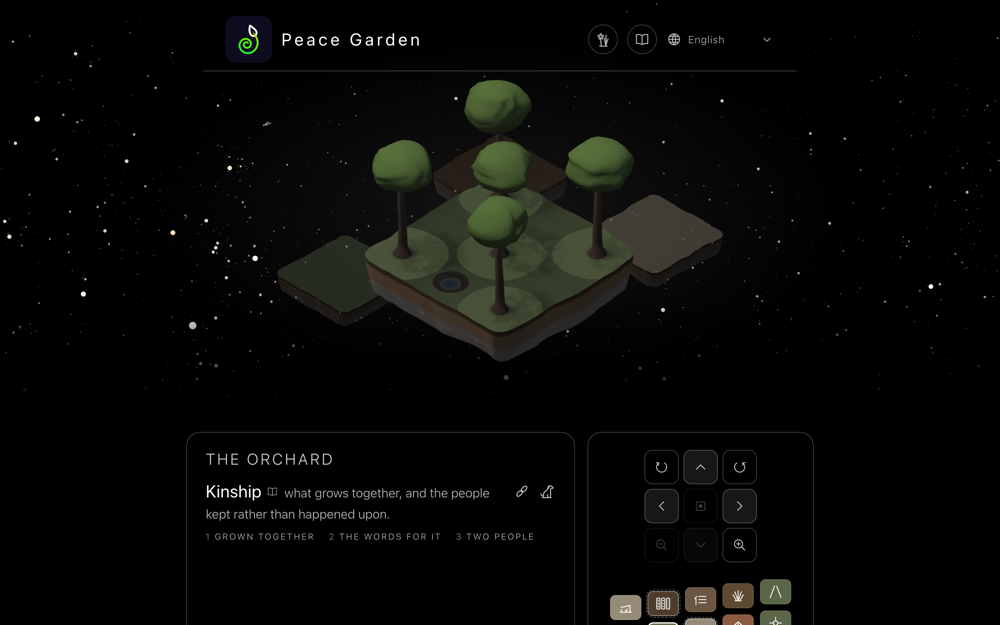
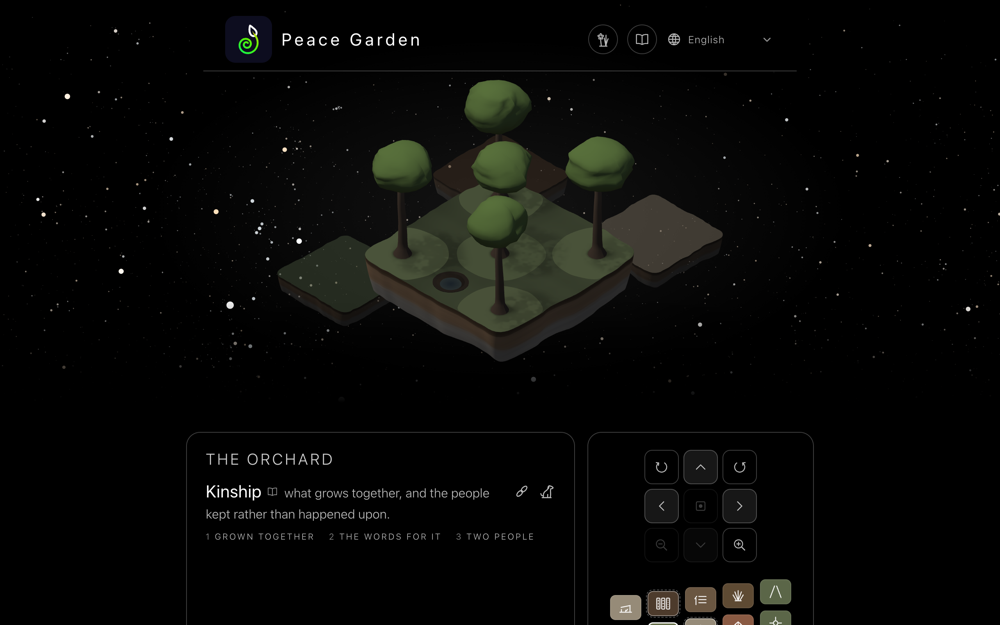
The stones in a plot's side are drawn only when zoomed in, on the website and in the app
Marcus, 2 October 2026: deploy the website's slab now. Show the stones only
when zoomed in, on both platforms. On the whole plot they were a sprinkle
of pale flecks along the side.

On the website the stage asks for no stones until the look is 1.3 times
closer than the whole plot, which one press of the pad passes. It then asks
for none under eight CSS pixels across (STONES in slab.js, the stonesFrom
uniform). A pixel rule alone would leave the largest stones on a desktop's
whole plot, at 13 to 18 pixels.

In the app GardenGround.side draws stones only into a close drawing. There
it draws none under eight points at the zoom the drawing is for
(smallestStone), where before it drew none under three points at the
plot's own size. The stale comment about the website's upright sides now
says the website hangs the same slab.

PlotTests.testStonesOnlyWhenZoomedIn holds the rule on a phone and an iPad.
The full app suite passes on a fresh iPhone Air simulator: 157 tests,
0 failures, 4 render tests skipped. All 23 reference checks pass. The ten
area pages, their ten workbenches and three turned views load with clean
consoles. The renders in design/web-slab-2026-10-02/ show the web after
views again, and add the app's 17:00 wide and close views.

diff --git a/App/PeaceGarden/Rendering/GardenGround.swift b/App/PeaceGarden/Rendering/GardenGround.swift
@@ -386,9 +386,21 @@ enum GardenGround {
     /// a fifth thinner than the bank it replaced (94 points of side against
     /// 119, at three times the garden's size). A tenth of a metre more puts
     /// back exactly what the taper takes, so the near side shows the 0.95 m
-    /// `rimDepth` promises and the camera leaves room for, and the website's
-    /// upright 0.95 m sides and this read as the same thickness.
+    /// `rimDepth` promises and the camera leaves room for. The website's plots
+    /// hang this same slab, at the same depth (`Server/assets/js/slab.js`,
+    /// since 2 October 2026).
     static let sideDepth = rimDepth + taper / 2
+
+    /// How small a stone in the side may come out on screen, in points, and
+    /// still be drawn.
+    ///
+    /// **Stones only when zoomed in** (Marcus, 2 October 2026, for the app and
+    /// the website alike). At three points the stones of the whole plot were a
+    /// sprinkle of flecks along the side; a stone is for a close look. So none
+    /// is drawn on the whole plot (`side`, which draws them only into a close
+    /// drawing) and, close up, none under eight points as it is seen — the
+    /// website's rule too (`STONES` in `slab.js`).
+    static let smallestStone = 8.0
 
     /// The slab's side, from the rim down to its lower edge, as pieces to fill
     /// far to near.
@@ -418,9 +430,11 @@ enum GardenGround {
     /// Only what faces the viewer is drawn, because depth runs on `x + z` and the
     /// rest is behind the plot's own surface; and with `within`, only the stretch
     /// of it that reaches into that part of the screen, which is what a close
-    /// drawing of a corner of the plot asks for.
+    /// drawing of a corner of the plot asks for. `magnification` is how many
+    /// times larger than `view` that close drawing is drawn to be seen — its
+    /// sharpness — which is what says how big a stone comes out (`stones`).
     static func side(rim: [SIMD3<Double>], view: Isometric, light: Light,
-                     within: CGRect? = nil) -> [SidePiece] {
+                     within: CGRect? = nil, magnification: Double = 1) -> [SidePiece] {
         let count = rim.count
         guard count > 8 else { return [] }
 
@@ -610,9 +624,14 @@ enum GardenGround {
         runs.sort { $0.depth < $1.depth }
         var pieces = runs.map(\.piece)
 
-        pieces += stones(rim: rim, along: along, perimeter: perimeter, outward: outward, hang: hang.map {
-            (deep: $0.deep, humus: $0.humus, rock: $0.rock)
-        }, view: view, light: light, world: world, normal: normal)
+        // **Stones only when zoomed in** (Marcus, 2 October 2026): a close
+        // drawing is the only drawing made once the plot is zoomed into, so the
+        // whole plot has none and a corner seen close has them.
+        if within != nil {
+            pieces += stones(rim: rim, along: along, perimeter: perimeter, outward: outward, hang: hang.map {
+                (deep: $0.deep, humus: $0.humus, rock: $0.rock)
+            }, view: view, magnification: magnification, light: light, world: world, normal: normal)
+        }
         return pieces
     }
 
@@ -625,7 +644,7 @@ enum GardenGround {
     /// little toward the sky. **Close in tone to the rock round it**: smooth
     /// round stones a shade lighter than the rock read as a row of rivets.
     /// Only where the side faces the viewer squarely, so none is ever cut by
-    /// the silhouette, and none so small on screen that it would be a speck.
+    /// the silhouette, and none smaller on screen than `smallestStone`.
     private static func stones(
         rim: [SIMD3<Double>],
         along: [Double],
@@ -633,6 +652,7 @@ enum GardenGround {
         outward: [SIMD2<Double>],
         hang: [(deep: Double, humus: Double, rock: Double)],
         view: Isometric,
+        magnification: Double,
         light: Light,
         world: (Int, Double) -> SIMD3<Double>,
         normal: (Int, Int, Double) -> SIMD3<Double>
@@ -671,7 +691,7 @@ enum GardenGround {
             let inRock = grain(k, 7, 53) < 0.75
             let width = inRock ? 0.06 + 0.07 * grain(k, 7, 55) : 0.04 + 0.03 * grain(k, 7, 55)
             let tall = width * (0.55 + 0.25 * grain(k, 7, 56))
-            guard width * view.pointsPerMetre > 3 else { continue }
+            guard width * view.pointsPerMetre * magnification >= smallestStone else { continue }
             let centre = inRock
                 ? h.rock + (h.deep - h.rock) * (0.25 + 0.45 * grain(k, 7, 54))
                 : h.humus + (h.rock - h.humus) * (0.35 + 0.4 * grain(k, 7, 54))

diff --git a/Server/assets/js/slab.js b/Server/assets/js/slab.js
@@ -83,9 +83,16 @@ const ROWS = 8;
 /// Stones: one chance in a little under two every half metre of rim.
 const SLOT = 0.5;
 
-/// How few pixels across a stone may be before it is not drawn, because a
-/// stone that small is a speck rather than a stone.
-const SPECK = 4;
+/// **Stones only when zoomed in** (Marcus, 2 October 2026, for the website
+/// and the app alike). On the whole plot they were a sprinkle of pale flecks
+/// along the side; a stone is for a close look. So the stage asks for none
+/// until the look is `zoom` times closer than the whole plot — the zoom the
+/// app draws a close drawing from, and less than one press of the pad — and
+/// then for none under `points` across as the reader sees it, in CSS pixels,
+/// which are the app's points (`GardenGround.smallestStone`). A pixel rule
+/// alone would not do it: a desktop window shows the whole plot at 100 to 140
+/// pixels a metre, where the largest stones are 13 to 18 across.
+export const STONES = { zoom: 1.3, points: 8 };
 
 /// The side hung from a plot's outline.
 ///
@@ -283,7 +290,9 @@ function hangAnew(outline, salt, scale, top) {
 /// graded inside each band as the app grades it, with its edges softened over
 /// a pixel and a half so they never stair-step; the faint layers in each band,
 /// which thicken and thin along the side and meet themselves round the loop;
-/// and the slow tone that wanders along it. A stone has its colour already.
+/// and the slow tone that wanders along it. A stone has its colour already, and
+// is not drawn under `stonesFrom` device pixels across (`STONES`), which the
+// stage sets out of reach on the whole plot.
 export function sideShaders(shade) {
   const vec = (c) => `vec3(${c.map((x) => x.toFixed(4)).join(', ')})`;
   const vertex = `#version 300 es
@@ -300,6 +309,7 @@ precision highp float;
 precision highp int;
 in vec3 vNormal; in vec4 vPlace; in vec4 vHang;
 uniform float opacity;
+uniform float stonesFrom;
 ${shade}
 const vec3 HUMUS = ${vec(STRATA.humus)};
 const vec3 EARTH = ${vec(STRATA.earth)};
@@ -352,8 +362,8 @@ vec3 strata(float down, float humusTo, float rockFrom, float bottom, float aa) {
 void main() {
   vec3 albedo;
   if (vHang.w < 0.0) {
-    // A stone, too few pixels across to be anything but a speck.
-    if (vPlace.z < ${SPECK.toFixed(1)} * fwidth(vPlace.x)) discard;
+    // A stone, if the look is close enough for one and it is big enough.
+    if (vPlace.z < stonesFrom * fwidth(vPlace.x)) discard;
     albedo = vHang.rgb;
   } else {
     float down = vPlace.y;

diff --git a/App/PeaceGarden/Rendering/GardenTerrain.swift b/App/PeaceGarden/Rendering/GardenTerrain.swift
@@ -63,7 +63,8 @@ actor GardenTerrain {
         let image = UIGraphicsImageRenderer(size: canvas, format: format).image { context in
             if let region { context.cgContext.translateBy(x: -region.minX, y: -region.minY) }
             Self.draw(world: world, plotSide: plotSide, view: view, detail: max(4, detail),
-                      light: light, region: region, into: context.cgContext)
+                      light: light, region: region, magnification: Double(sharpness),
+                      into: context.cgContext)
         }
 
         // A handful is enough: one for the plot and eight small ones for the row
@@ -90,6 +91,7 @@ actor GardenTerrain {
         detail mesh: Int,
         light: GardenGround.Light,
         region: CGRect? = nil,
+        magnification: Double = 1,
         into context: CGContext
     ) {
         let worlds = GardenWorlds.shared
@@ -163,7 +165,8 @@ actor GardenTerrain {
 
         // The side first: it hangs behind the surface, and the surface is what
         // closes the top of it.
-        drawSide(rim: rim(of: grid, detail: mesh), view: view, light: light, within: reach, into: context)
+        drawSide(rim: rim(of: grid, detail: mesh), view: view, light: light, within: reach,
+                 magnification: magnification, into: context)
 
         // Far to near along the anti-diagonals **of the view**, not of the plot.
         // Near is a fact about the screen: once the plot has been turned, the
@@ -324,13 +327,15 @@ actor GardenTerrain {
         view: Isometric,
         light: GardenGround.Light,
         within: CGRect?,
+        magnification: Double,
         into context: CGContext
     ) {
         context.saveGState()
         defer { context.restoreGState() }
         context.setLineWidth(0.7)
         context.setLineJoin(.bevel)
-        for piece in GardenGround.side(rim: rim, view: view, light: light, within: within) {
+        for piece in GardenGround.side(rim: rim, view: view, light: light, within: within,
+                                       magnification: magnification) {
             let colour = piece.colour
             context.setFillColor(red: colour.x, green: colour.y, blue: colour.z, alpha: 1)
             context.setStrokeColor(red: colour.x, green: colour.y, blue: colour.z, alpha: 1)

diff --git a/App/PeaceGardenTests/PlotTests.swift b/App/PeaceGardenTests/PlotTests.swift
@@ -591,6 +591,30 @@ final class PlotTests: XCTestCase {
         }
     }
 
+    /// **Stones only when zoomed in** (Marcus, 2 October 2026). The whole plot
+    /// has none, at any size of screen; a close drawing has them; and a close
+    /// drawing too small to show one at `smallestStone` has none. A stone is
+    /// three pieces of nine corners, and a band is a run of an even number, so
+    /// the nine-cornered pieces are the stones.
+    func testStonesOnlyWhenZoomedIn() {
+        let side = 5.2
+        let rim = PlotOutline.of(plotSide: side).points.map { SIMD3($0.x, 0, $0.z) }
+        func stones(_ view: Isometric, within: CGRect?, magnification: Double = 1) -> Int {
+            GardenGround.side(rim: rim, view: view, light: .noon, within: within, magnification: magnification)
+                .filter { $0.points.count == 9 }.count
+        }
+        for size in [CGSize(width: 390, height: 844), CGSize(width: 1024, height: 768)] {
+            let view = Isometric.fitting(plotSide: side, in: size, headroom: GardenSprites.tallestExpected,
+                                         soilDepth: GardenGround.rimDepth)
+            XCTAssertEqual(stones(view, within: nil), 0, "stones on the whole plot at \(size)")
+            let everywhere = CGRect(origin: .zero, size: size).insetBy(dx: -size.width, dy: -size.height)
+            XCTAssertGreaterThan(stones(view, within: everywhere, magnification: 3), 0,
+                                 "no stones close up at \(size)")
+            XCTAssertEqual(stones(view, within: everywhere, magnification: 0.1), 0,
+                           "stones smaller than \(GardenGround.smallestStone) points at \(size)")
+        }
+    }
+
     /// **A garden you cannot see is not a garden.** The moon's curve is right
     /// and is still pinned above — 18:00 is the darkest hour of the day — and the
     /// Milky Way is what keeps that hour from being a black screen. Held as a

diff --git a/Server/assets/js/longwalk.js b/Server/assets/js/longwalk.js
@@ -11,7 +11,7 @@ import { ROLES, YOUNG, decode, takeResult, link, attribute, multiply } from './p
 import { castShadow } from './shadow.js';
 import { areasBeside } from './beside.js';
 import { raiseRill } from './water.js';
-import { RIM_DEPTH, STRATA, hangSide, sideShaders } from './slab.js';
+import { RIM_DEPTH, STONES, STRATA, hangSide, sideShaders } from './slab.js';
 
 export const SIDE = 5.2;    // LongWalk.plotSide, and QuietGarden.plotSide
 const PATH_HALF = 0.6;      // LongWalk.pathHalfWidth
@@ -428,7 +428,7 @@ export function makePlotStage(canvas, span, e, buildTheGround = buildGround) {
                                ['offset', 'colour', 'relief', 'young', 'look']);
   const shadowProgram = program(gl, SHADOW_VERTEX, SHADOW_FRAGMENT, ['position', 'uv', 'fade'], ['loss']);
   const sideProgram = program(gl, SIDE_SHADERS.vertex, SIDE_SHADERS.fragment,
-                              ['position', 'normal', 'place', 'hang'], ['offset', 'opacity']);
+                              ['position', 'normal', 'place', 'hang'], ['offset', 'opacity', 'stonesFrom']);
   // **What a plant's shadow lies on.** An area whose floor is not level says
   // how high it is anywhere (`height`, on the builder it hands the stage), so
   // a shadow on a bed's shoulder or a hollow in the litter follows it rather
@@ -546,6 +546,11 @@ export function makePlotStage(canvas, span, e, buildTheGround = buildGround) {
       gl.uniform3fv(p.at.bounce, LIGHT.bounce);
       gl.uniform1f(p.at.strength, LIGHT.strength);
     }
+
+    // **Stones in the side only when the look is zoomed in** (`STONES`), and
+    // then none under eight CSS pixels across: on the whole plot, out of reach.
+    gl.useProgram(sideProgram.program);
+    gl.uniform1f(sideProgram.at.stonesFrom, look.zoom >= STONES.zoom ? STONES.points * ratio : 1e6);
 
     gl.useProgram(ground.program);
     gl.uniform1i(ground.at.upOnly, 0);

diff --git a/docs/WEB-GARDENS.md b/docs/WEB-GARDENS.md
@@ -64,8 +64,7 @@ What is different here, and why:
 - **The bands are worked out per pixel.** The mesh is eight rows down and a
   column per point of the rim, a few thousand triangles; the shader works out
   the bands, their edges (softened over a pixel and a half) and the layers from
-  where on the side each pixel is, so they stay sharp at the closest zoom. A
-  stone under four pixels across is not drawn.
+  where on the side each pixel is, so they stay sharp at the closest zoom.
 - **Hung once a plot.** The side is the same from every quarter, so a turn,
   which builds the ground again, finds it already hung.
 - `COLOUR`'s humus, earth and bedrock are read from `slab.js`, and `RIM_DEPTH`
@@ -81,6 +80,32 @@ a side 3.0 → 3.8, the Orchard with its three neighbours 1.5 → 1.7, the Long 
 Knot Garden 3.5 → 3.0, the Orchard 1.5 → 1.7, the Long Walk 7.7 → 7.8. Every
 view held sixty frames a second before and after, and a turn costs what it did.
 The renders are in `design/web-slab-2026-10-02/`.
+
+### Decided, 2 October 2026
+
+Marcus's two answers, from the renders:
+
+- **Deploy it now**, as built, with the one change below.
+- **Stones only when zoomed in, on the website and in the app alike.** On the
+  whole plot they were a sprinkle of pale flecks along the side; a stone is
+  for a close look. So the whole plot has none, and close up none is drawn
+  under eight points across as it is seen (CSS pixels on the website).
+  - **Website:** none until the look is 1.3 times closer than the whole plot,
+    which one press of the pad passes (`STONES` in `slab.js`, set by the stage
+    as `stonesFrom`). Eight pixels alone would not have done it: a desktop
+    window shows the whole plot at 100 to 140 pixels a metre, where the largest
+    stones are 13 to 18 across, and only a phone's whole plot is small enough
+    to lose them all.
+  - **App:** none on the whole plot, only in the close drawing that is made
+    once the plot is zoomed past 1.3, and there none under eight points at the
+    zoom it is drawn for (`GardenGround.smallestStone`). It had been three
+    points at whatever size the plot was drawn, so the larger stones showed on
+    the whole plot. `PlotTests.testStonesOnlyWhenZoomedIn` holds it on a phone
+    and an iPad.
+
+`design/web-slab-2026-10-02/` has the website's whole Knot Garden with none and
+the close view with them, and the app's 17:00 wide and close views
+(`app-after-stones-…`).
 
 ## The Wild Fields built, 1 October 2026
 

diff --git a/design/web-slab-2026-10-02/README.md b/design/web-slab-2026-10-02/README.md
@@ -14,6 +14,7 @@ The two close views are reduced to 256 colours to keep them under 500 KB.
 | `before-orchard-gateways`, `after-orchard-gateways` | `/orchard`, 1280×800: the Orchard's page with its three neighbours out past it, whose sides are the same slab at half the size. |
 | `before-knot-side`, `after-knot-side` | The Knot Garden 2.5 times closer, 1000×1000, on the near corner: both near sides and the lower edge. |
 | `before-knot-phone`, `after-knot-phone` | The Knot Garden on a 390×844 phone screen. |
+| `app-after-stones-17-wide`, `app-after-stones-17-side` | The app's Meadow at 17:00 from `WorldRenderTests.testDrawTheSlab`, whole and three times closer, on the sky colour of `design/app-slab-2026-10-02/` at that hour: no stones on the whole plot, and the stones there close up. |
 
 ## What changed
 
@@ -28,6 +29,10 @@ The two close views are reduced to 256 colours to keep them under 500 KB.
   with boundaries that wander along the side, faint layers in each, and a few
   angular stones in the rock.
 - **The near side still shows 0.95 m**, as before and as in the app.
+- **Stones only when zoomed in** (Marcus, 2 October 2026, on both platforms):
+  `after-knot` and the other whole views have none; `after-knot-side`, 2.5
+  times closer, has them. The website draws none until the look is 1.3 times
+  closer than the whole plot, and then none under eight CSS pixels across.
 
 `docs/WEB-GARDENS.md` §*The plot's side as a solid slab* has what is the app's,
 what is different here and why, and the frame times.

diff --git a/docs/ARRANGING.md b/docs/ARRANGING.md
@@ -457,7 +457,9 @@ already emphatic about why looking is not a convenience.
     alone came out the same brown as the earth. Each boundary wanders slowly
     along the side, each band has faint layers in it, and a few angular stones
     sit in the rock, close to it in tone — smooth round ones a shade lighter
-    read as rivets.
+    read as rivets. **Only when zoomed in** (Marcus, the same day, for the app
+    and the website alike): the whole plot has none, and a close drawing none
+    under eight points across as it is seen (`smallestStone`).
 
   **The rim depth as seen is still 0.95 m; the side itself is 1.05 m.** A side
   drawn in at its foot is a side whose foot has moved up the screen — by half
